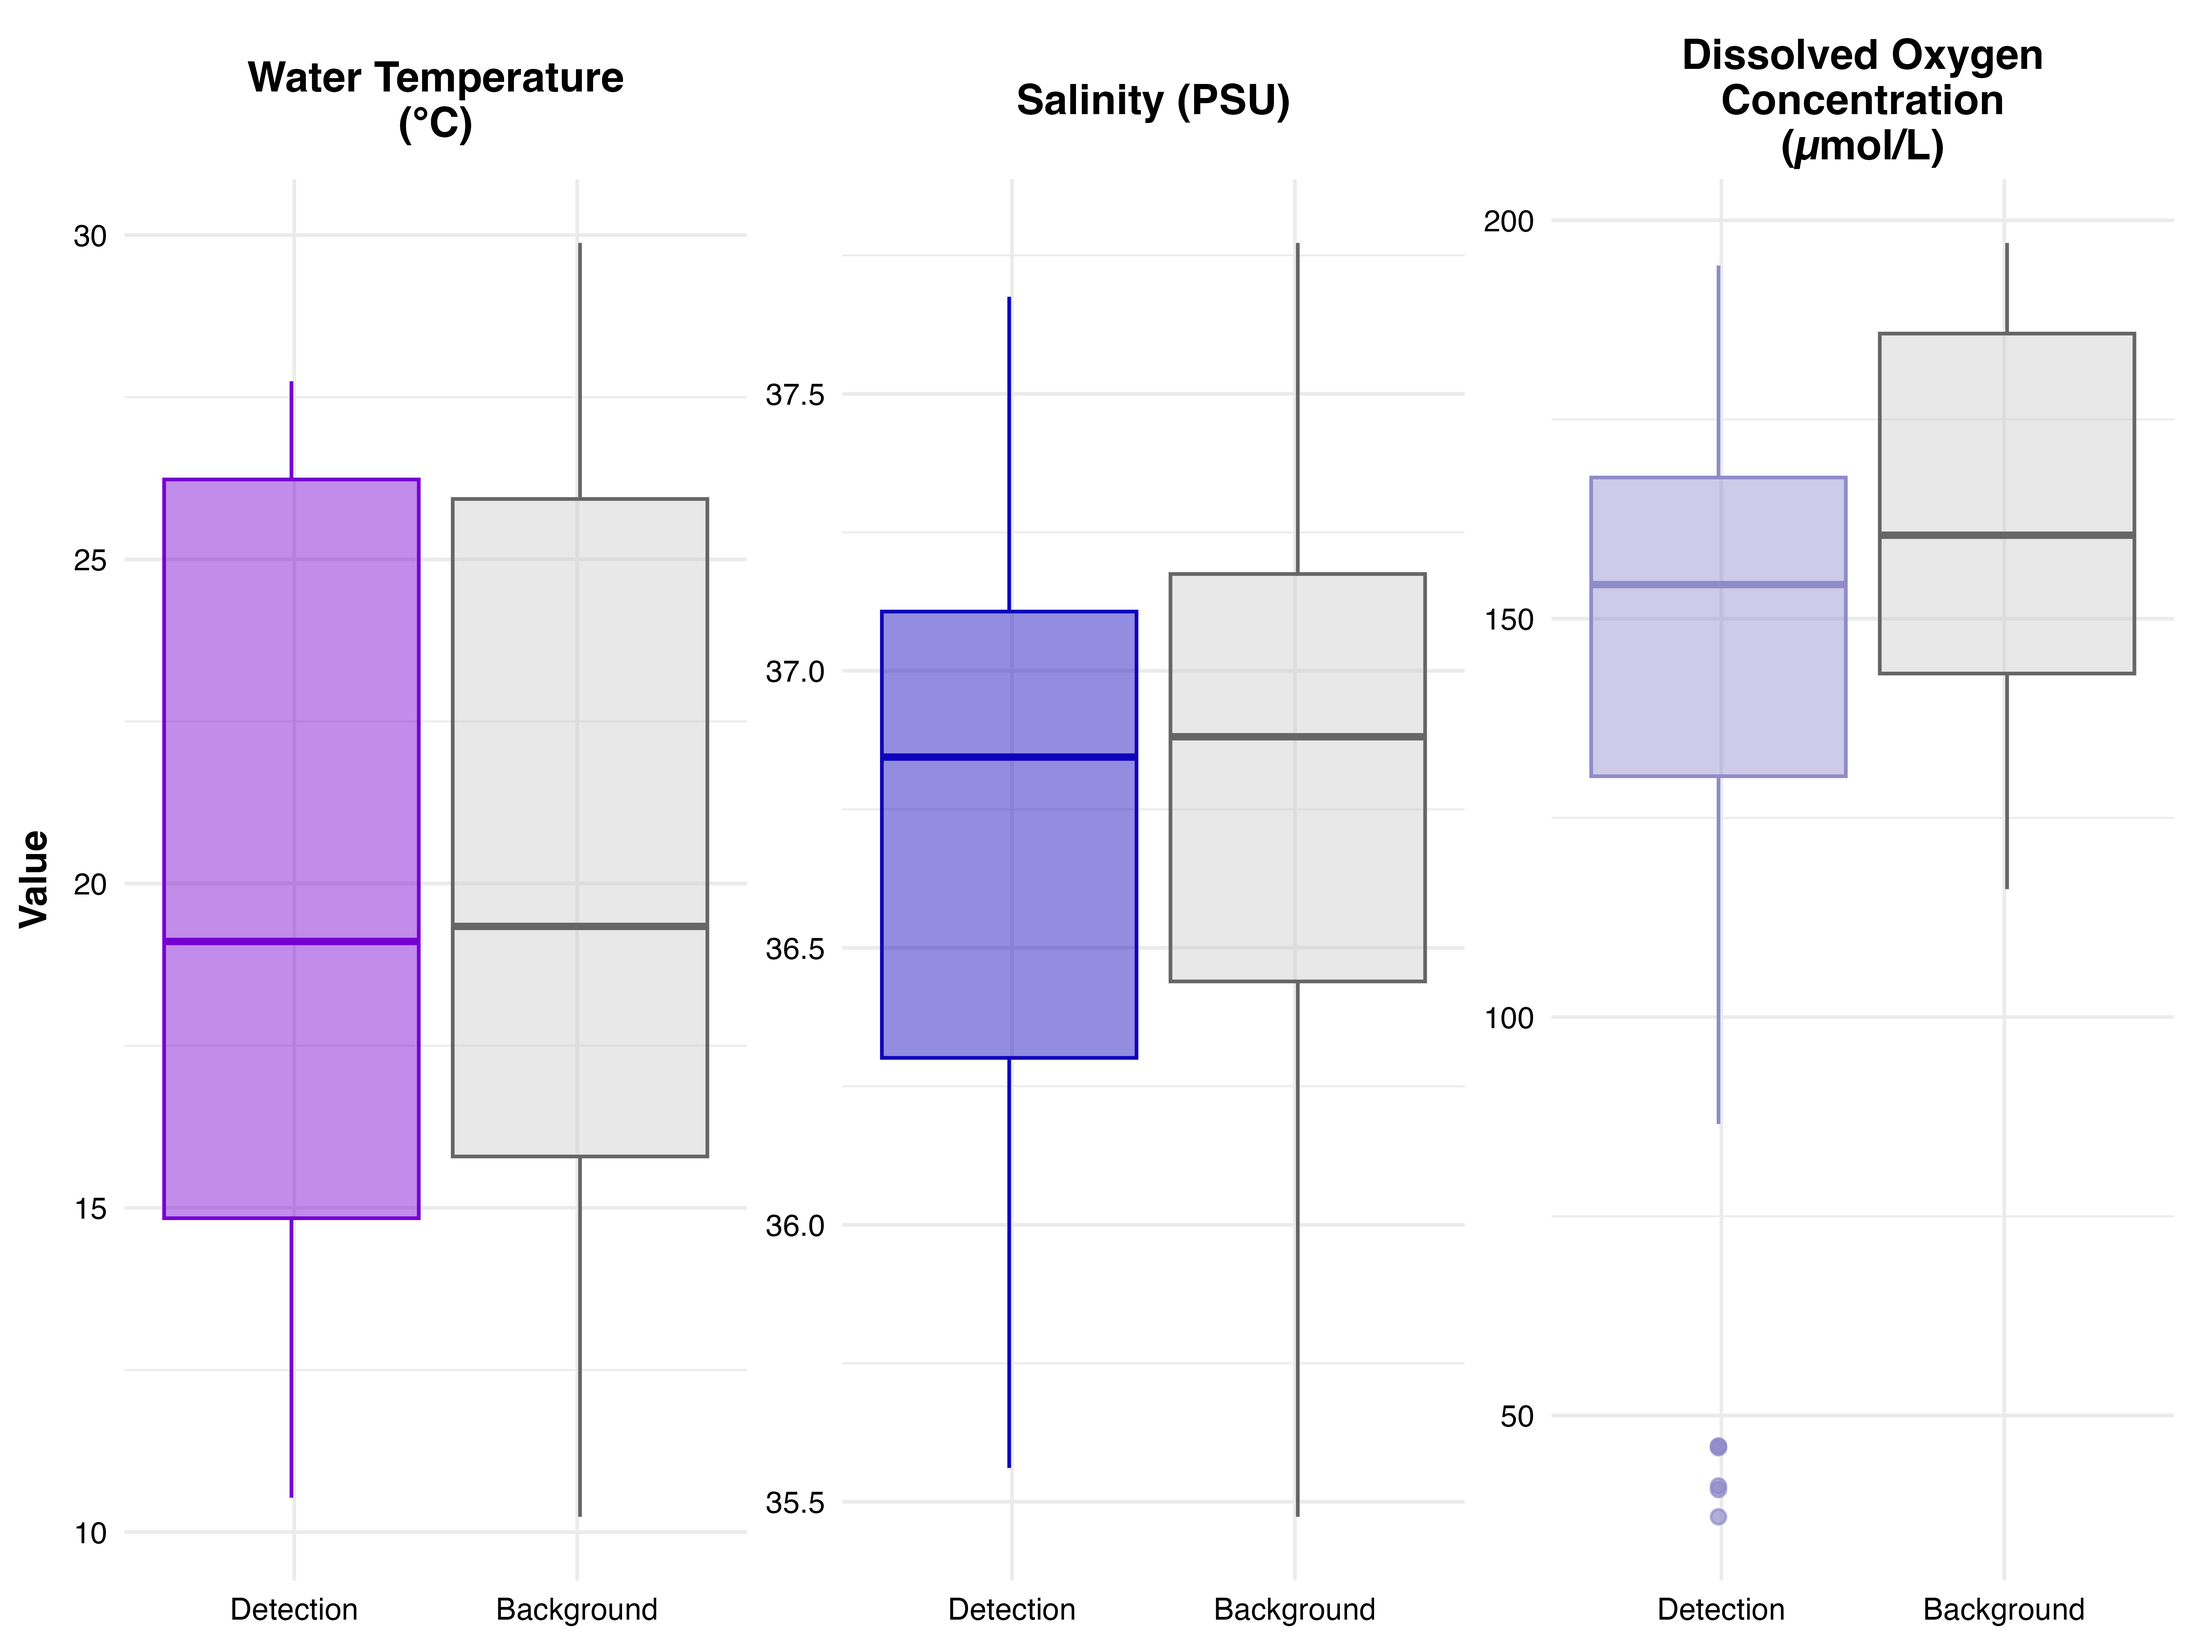
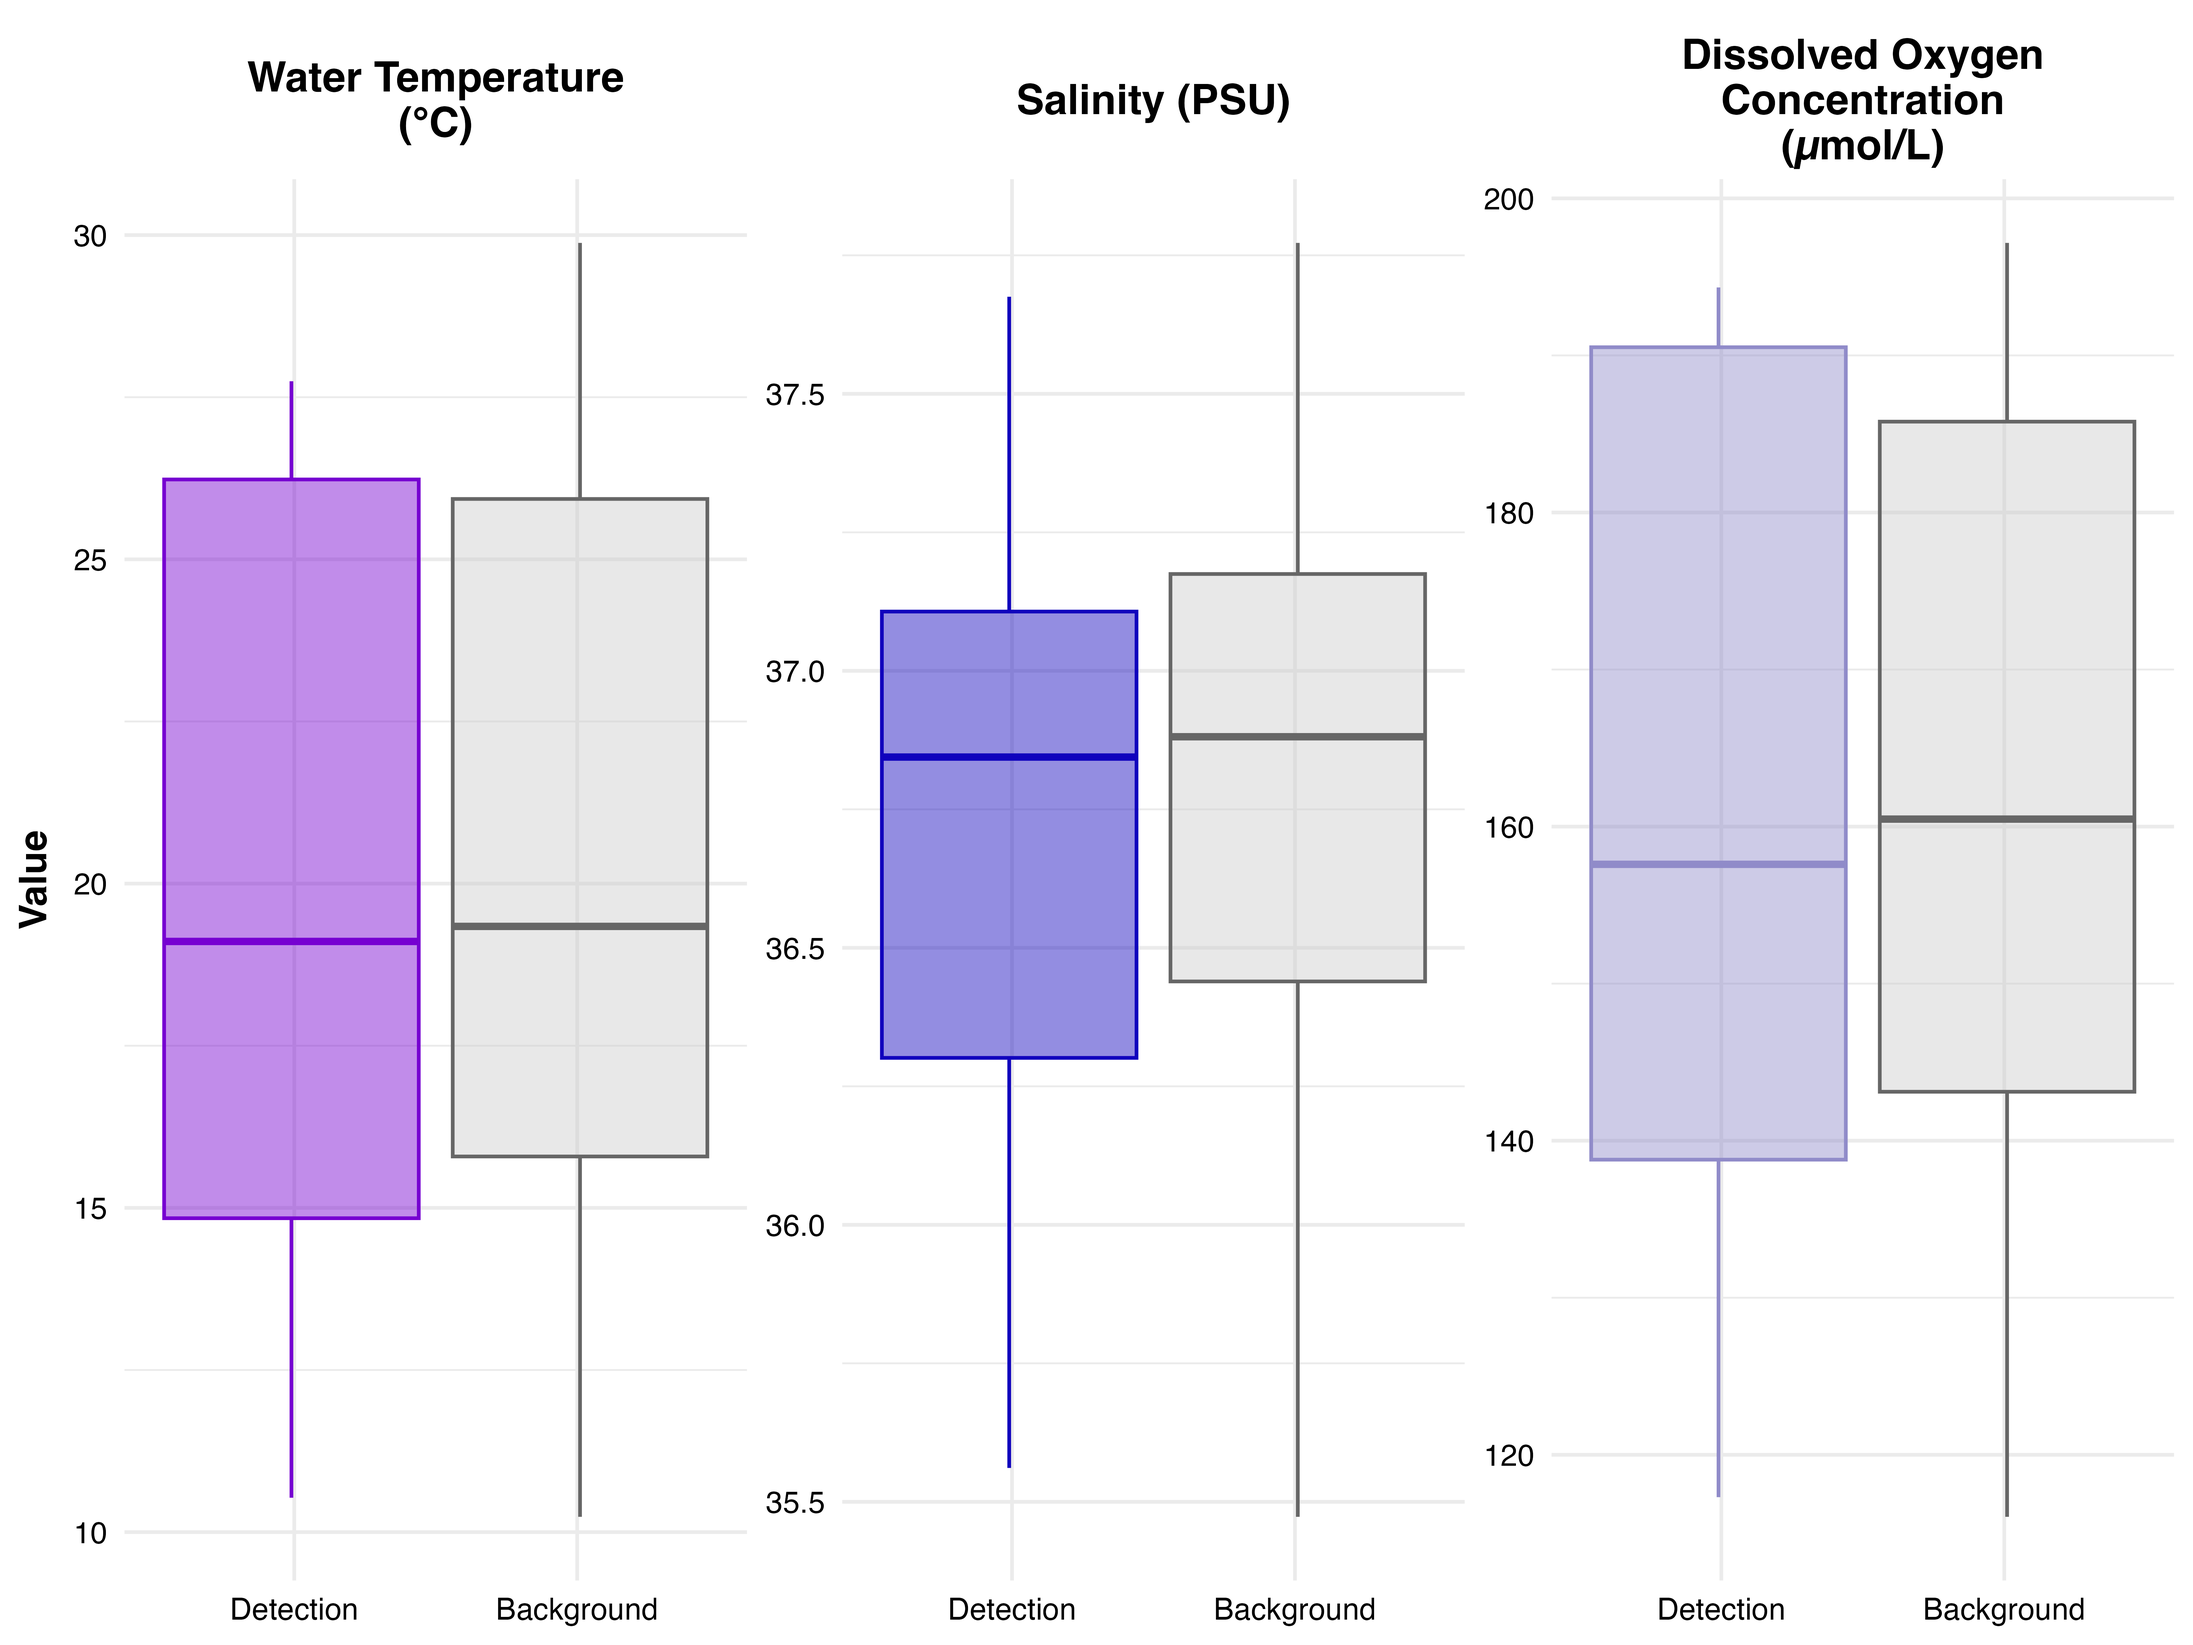
REDO INDEX DOC WITH **CORRECT ERDDAP DATA VALUES FOR SALINITY AND OXYGEN**

diff --git a/docs/index.html b/docs/index.html
@@ -104,13 +104,14 @@ ul.task-list li input[type="checkbox"] {
 <table class="table table-striped table-hover caption-top table-sm small">
 <thead>
 <tr class="header">
-<th style="text-align: left;" data-quarto-table-cell-role="th">Variable</th>
-<th style="text-align: left;" data-quarto-table-cell-role="th">Mean</th>
-<th style="text-align: left;" data-quarto-table-cell-role="th">SEM</th>
-<th style="text-align: left;" data-quarto-table-cell-role="th">SD</th>
-<th style="text-align: left;" data-quarto-table-cell-role="th">Min</th>
-<th style="text-align: left;" data-quarto-table-cell-role="th">Max</th>
-<th style="text-align: left;" data-quarto-table-cell-role="th">Mean Difference from Background</th>
+<th style="text-align: left;" data-quarto-table-cell-role="th">Oceanographic Variable</th>
+<th style="text-align: left;" data-quarto-table-cell-role="th">Detection Conditions Mean</th>
+<th style="text-align: left;" data-quarto-table-cell-role="th">Detection Conditions SEM</th>
+<th style="text-align: left;" data-quarto-table-cell-role="th">Detection Conditions SD</th>
+<th style="text-align: left;" data-quarto-table-cell-role="th">Detection Conditions Min</th>
+<th style="text-align: left;" data-quarto-table-cell-role="th">Detection Conditions Max</th>
+<th style="text-align: left;" data-quarto-table-cell-role="th">Background Conditions Mean</th>
+<th style="text-align: left;" data-quarto-table-cell-role="th">Difference in Means</th>
 </tr>
 </thead>
 <tbody>
@@ -121,7 +122,8 @@ ul.task-list li input[type="checkbox"] {
 <td style="text-align: left;">5.64</td>
 <td style="text-align: left;">10.53</td>
 <td style="text-align: left;">27.75</td>
-<td style="text-align: left;">-0.22045</td>
+<td style="text-align: left;">20.03</td>
+<td style="text-align: left;">-0.2204</td>
 </tr>
 <tr class="even">
 <td style="text-align: left;">Salinity (PSU)</td>
@@ -130,16 +132,18 @@ ul.task-list li input[type="checkbox"] {
 <td style="text-align: left;">0.55</td>
 <td style="text-align: left;">35.56</td>
 <td style="text-align: left;">37.68</td>
-<td style="text-align: left;">-0.08064</td>
+<td style="text-align: left;">36.78</td>
+<td style="text-align: left;">-0.0807</td>
 </tr>
 <tr class="odd">
 <td style="text-align: left;">Dissolved Oxygen Concentration (µmol/L)</td>
-<td style="text-align: left;">151.61</td>
-<td style="text-align: left;">1.88</td>
-<td style="text-align: left;">30.48</td>
-<td style="text-align: left;">37.28</td>
+<td style="text-align: left;">158.95</td>
+<td style="text-align: left;">1.55</td>
+<td style="text-align: left;">25.11</td>
+<td style="text-align: left;">117.30</td>
 <td style="text-align: left;">194.33</td>
-<td style="text-align: left;">-9.55965</td>
+<td style="text-align: left;">161.17</td>
+<td style="text-align: left;">-2.2210</td>
 </tr>
 <tr class="even">
 <td style="text-align: left;">Bathymetric Depth (m)</td>
@@ -148,6 +152,7 @@ ul.task-list li input[type="checkbox"] {
 <td style="text-align: left;">1068.20</td>
 <td style="text-align: left;">-3963.32</td>
 <td style="text-align: left;">-541.24</td>
+<td style="text-align: left;">NA</td>
 <td style="text-align: left;">NA</td>
 </tr>
 <tr class="odd">
@@ -158,6 +163,7 @@ ul.task-list li input[type="checkbox"] {
 <td style="text-align: left;">0.25</td>
 <td style="text-align: left;">39.90</td>
 <td style="text-align: left;">NA</td>
+<td style="text-align: left;">NA</td>
 </tr>
 <tr class="even">
 <td style="text-align: left;">Distance to Nearest Shoreline (m)</td>
@@ -166,6 +172,7 @@ ul.task-list li input[type="checkbox"] {
 <td style="text-align: left;">20091.42</td>
 <td style="text-align: left;">4195.11</td>
 <td style="text-align: left;">65863.91</td>
+<td style="text-align: left;">NA</td>
 <td style="text-align: left;">NA</td>
 </tr>
 </tbody>
@@ -176,7 +183,7 @@ ul.task-list li input[type="checkbox"] {
 <div class="cell-output-display">
 <div>
 <figure class="figure">
-<p><img src="index_files/figure-html/unnamed-chunk-15-1.png" class="img-fluid figure-img" width="672"></p>
+<p><img src="index_files/figure-html/unnamed-chunk-14-1.png" class="img-fluid figure-img" width="672"></p>
 </figure>
 </div>
 </div>
@@ -186,7 +193,7 @@ ul.task-list li input[type="checkbox"] {
 <div class="cell-output-display">
 <div>
 <figure class="figure">
-<p><img src="index_files/figure-html/unnamed-chunk-16-1.png" class="img-fluid figure-img" width="672"></p>
+<p><img src="index_files/figure-html/unnamed-chunk-15-1.png" class="img-fluid figure-img" width="672"></p>
 </figure>
 </div>
 </div>
